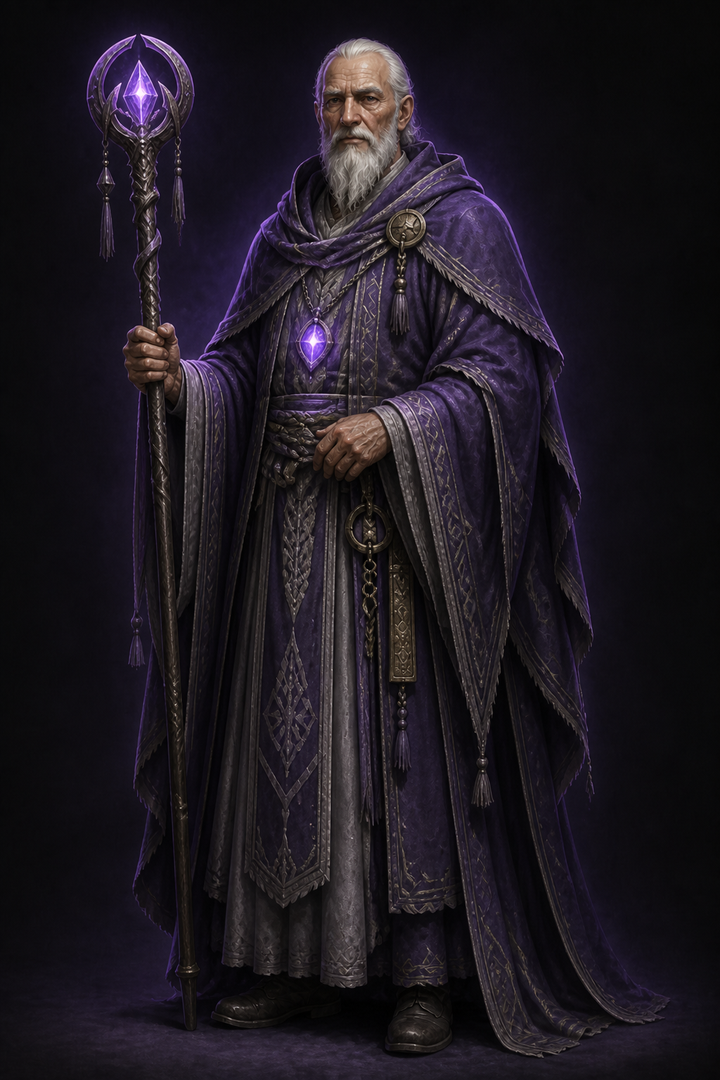
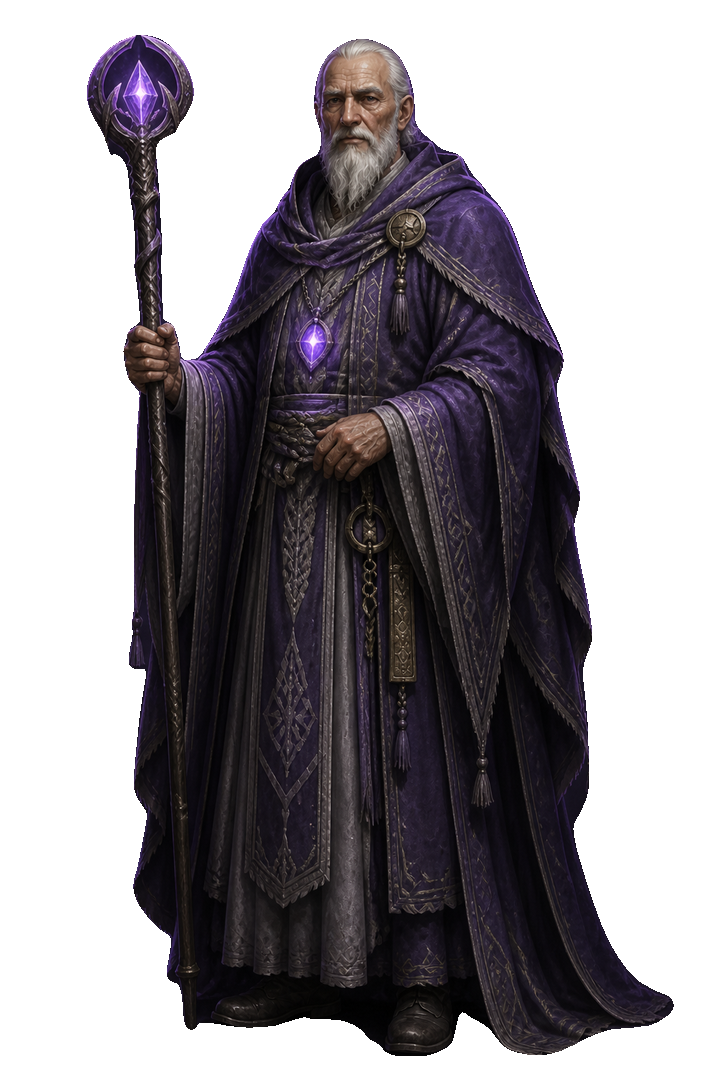
fix(narrative): replace broken opaque Grok theme assets (#1389)

diff --git a/src/Tests/GasTests/Production/NarrativeShowcasePlayableAcceptanceTests.cs b/src/Tests/GasTests/Production/NarrativeShowcasePlayableAcceptanceTests.cs
@@ -35,6 +35,7 @@ using Ludots.UI.Runtime;
 using Ludots.UI.Skia;
 using NUnit.Framework;
 using Ludots.Tests.TestCommon;
+using SkiaSharp;
 
 namespace Ludots.Tests.GAS.Production
 {
@@ -74,6 +75,7 @@ namespace Ludots.Tests.GAS.Production
             string artifactDir = Path.Combine(repoRoot, "artifacts", "acceptance", "narrative-showcase");
             string screensDir = Path.Combine(artifactDir, "screens");
             AcceptanceUiEvidenceWriter.ResetArtifactDirectory(artifactDir, screensDir);
+            AssertThemeAssetsHaveTransparentBackgrounds(repoRoot);
 
             var snapshots = new List<AcceptanceSnapshot>();
             var frames = new List<UiAcceptanceEvidenceFrame>();
@@ -764,6 +766,40 @@ namespace Ludots.Tests.GAS.Production
                 FindUiNodeByClass(uiRoot.Scene?.Root, "story-overlay-copy"),
                 Is.Not.Null,
                 "Overlay dialogue must place speaker name and body in story-overlay-copy beside the portrait.");
+        }
+
+        private static void AssertThemeAssetsHaveTransparentBackgrounds(string repoRoot)
+        {
+            string themeRoot = Path.Combine(
+                repoRoot,
+                "mods",
+                "showcases",
+                "narrative",
+                "NarrativeShowcaseMod",
+                "assets",
+                "PanelThemes");
+            string[] themeIds = { "story-ember", "story-sanguo", "story-fantasy", "story-acnh" };
+            string[] imageNames = { "panel_frame.png", "choice_frame.png", "portrait_warden.png", "standing_warden.png" };
+
+            foreach (string themeId in themeIds)
+            {
+                foreach (string imageName in imageNames)
+                {
+                    string path = Path.Combine(themeRoot, themeId, "images", imageName);
+                    using SKBitmap bitmap = SKBitmap.Decode(path)
+                        ?? throw new InvalidOperationException($"Unable to decode theme asset '{path}'.");
+                    Assert.That(
+                        new[]
+                        {
+                            bitmap.GetPixel(0, 0).Alpha,
+                            bitmap.GetPixel(bitmap.Width - 1, 0).Alpha,
+                            bitmap.GetPixel(0, bitmap.Height - 1).Alpha,
+                            bitmap.GetPixel(bitmap.Width - 1, bitmap.Height - 1).Alpha
+                        },
+                        Is.All.EqualTo((byte)0),
+                        $"{themeId}/{imageName} must have transparent outer corners.");
+                }
+            }
         }
 
         private static void AssertDialogueBodyRunsVisibleOnUi(UIRoot uiRoot, DialogueView dialogueView)
